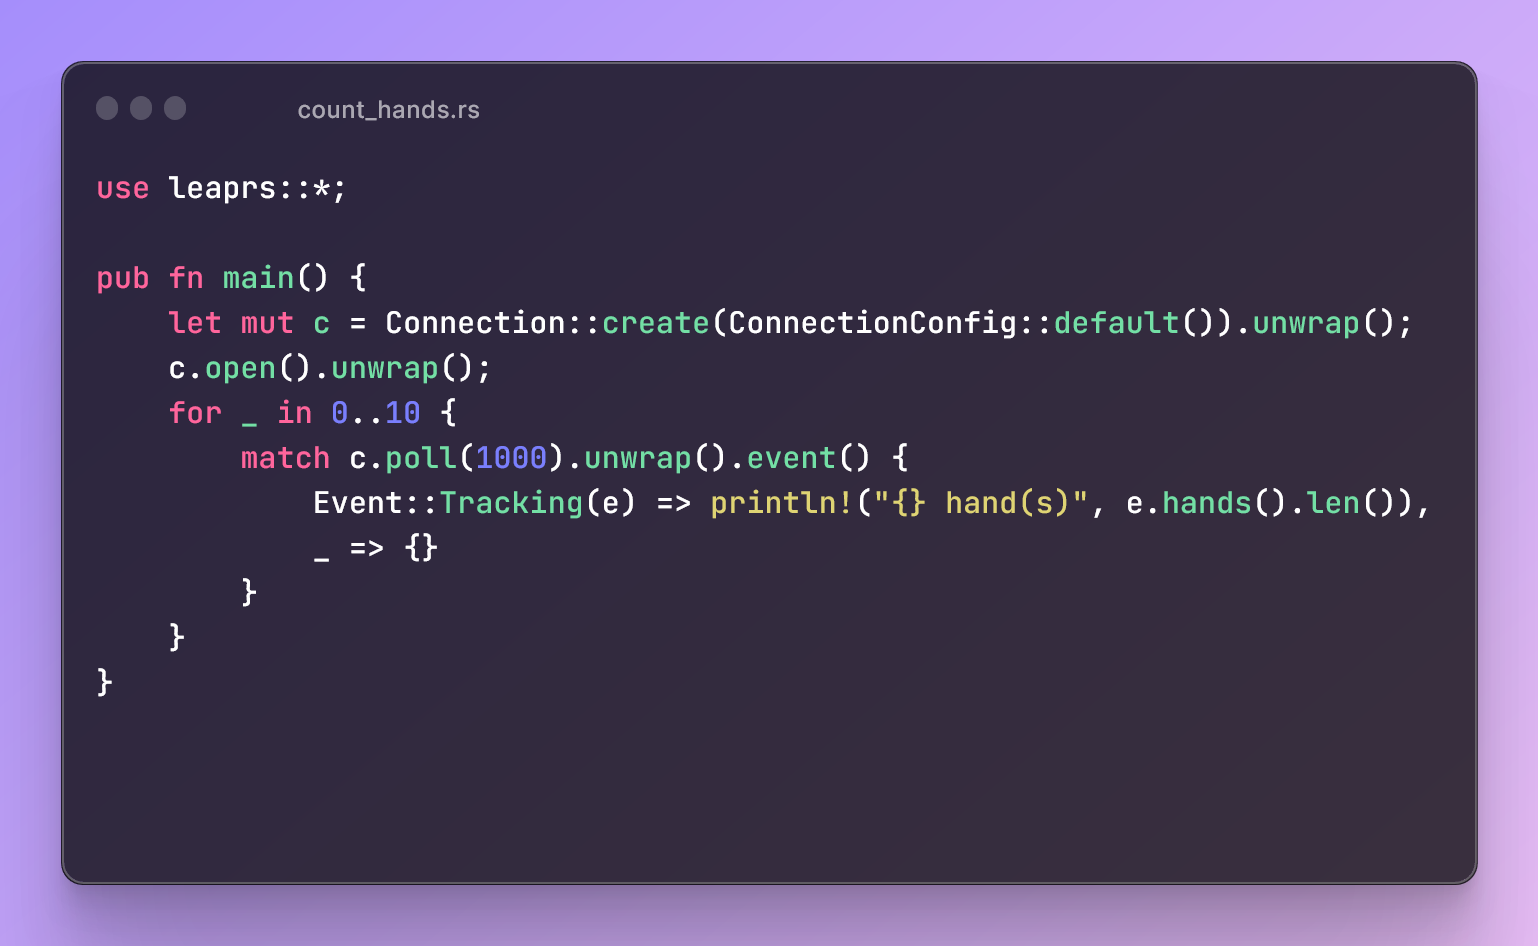
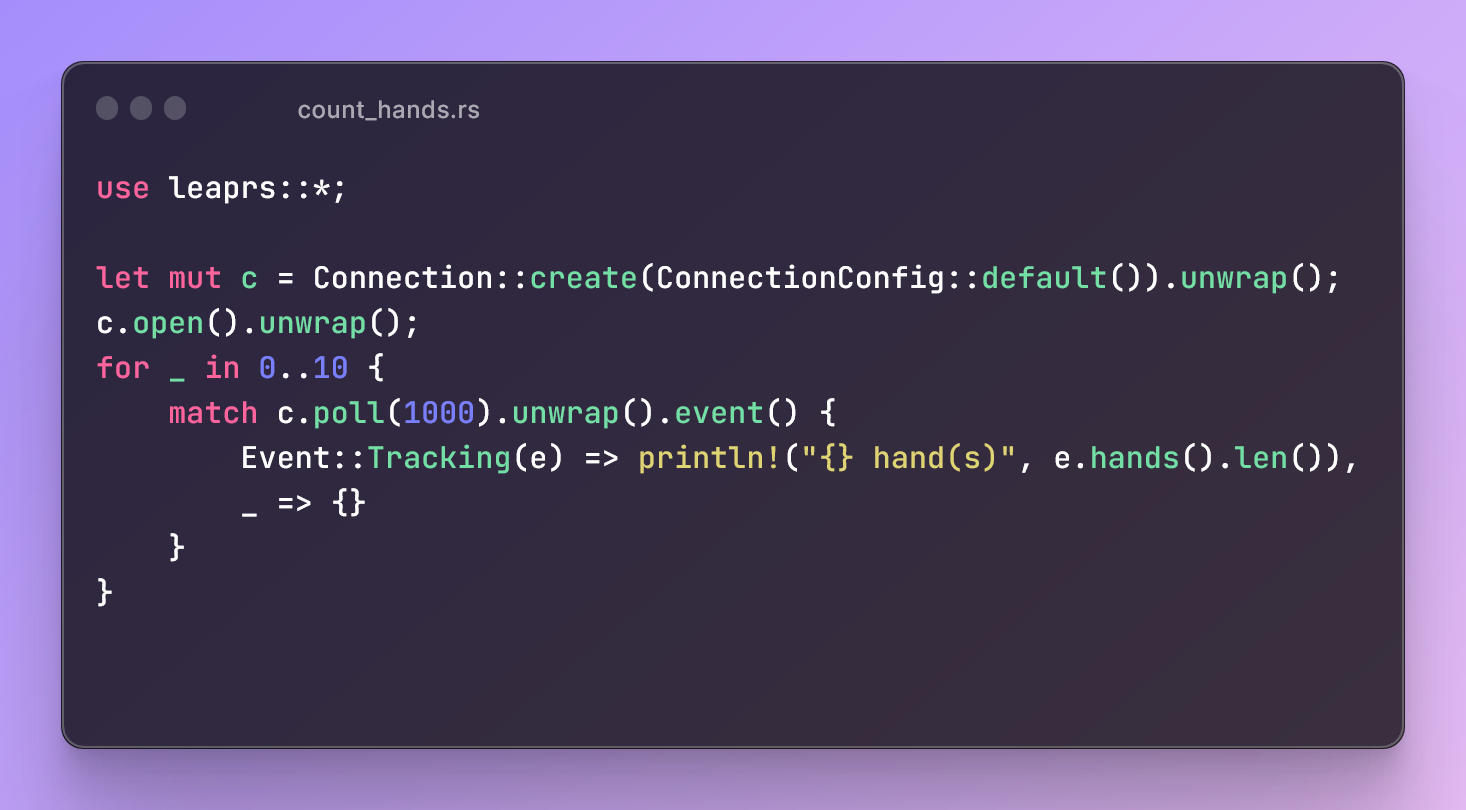
simpler example

Changed region(s): [[0.0307, 0.0617, 0.9823, 0.9568], [0.0921, 0.6481, 0.1228, 0.679]]

diff --git a/README.md b/README.md
@@ -76,18 +76,11 @@ environment variable. For distribution, refer to the SDK licensing.
 ```rust
 use leaprs::*;
 
-let mut connection =
-    Connection::create(ConnectionConfig::default()).expect("Failed to connect");
-connection.open().expect("Failed to open the connection");
-connection.poll(1000).expect("First poll failed");
-
+let mut c = Connection::create(ConnectionConfig::default()).unwrap();
+c.open().unwrap();
 for _ in 0..10 {
-    match connection
-        .poll(1000)
-        .expect("Failed to poll for events.")
-        .event()
-    {
-        Event::Tracking(e) => println!("There are {} hand(s) in view", e.hands().len()),
+    match c.poll(1000).unwrap().event() {
+        Event::Tracking(e) => println!("{} hand(s)", e.hands().len()),
         _ => {}
     }
 }
